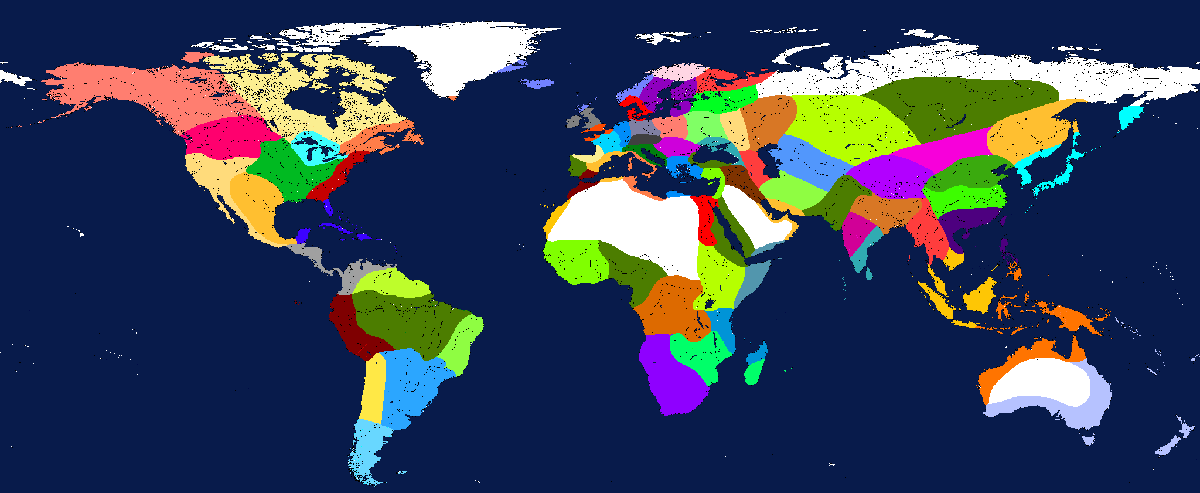
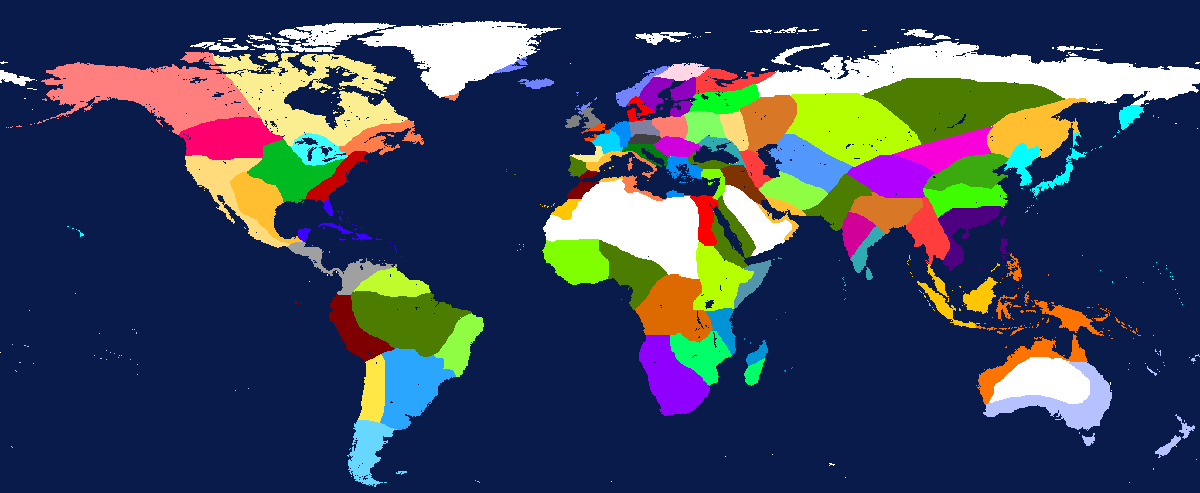
new zones map
all of north america colortozonename fixed

renamed WestCoast to BajaCaliforia
renamed Mississippi to Louisiana

diff --git a/TradeZoneWealth.js b/TradeZoneWealth.js
@@ -45,17 +45,17 @@ async function onLoad() {
         console.log("completed! Time Took (ms): " + ((new Date()) - startTime));
     }
     let ColorToZoneName = [
-        ["ff7e70", "Alaska"],
+        ["ff7f7f", "Alaska"],
         ["ff006e", "Cascadia"],
-        ["3dffff", "WestCoast"],
+        ["ffdb7b", "BajaCalifornia"],
         ["fbee91", "HudsonBay"],
-        ["3dffff", "GreatLakes"]/*,
-        ["Mississipi"],
-        ["GulfOfMexico"],
-        ["LawrenceGulf"],
-        ["EastCoast"],
-        ["Carribean"],
-        ["CentralAmerica"],
+        ["3dffff", "GreatLakes"],
+        ["00ba21", "Louisiana"],
+        ["ffbf30", "GulfOfMexico"],
+        ["ff7d49", "LawrenceGulf"],
+        ["c50000", "EastCoast"],
+        ["3c02ff", "Carribean"],
+        ["a0a0a0", "CentralAmerica"]/*,
 
         ["GuyanaAndSuriname"],
         ["Amazon"],

diff --git a/NationSheetGenerator.js b/NationSheetGenerator.js
@@ -454,10 +454,10 @@ function createNationSheet(nationName) {
             [
                 ".TradeInfluences[\"Alaska\"]",
                 ".TradeInfluences[\"Cascadia\"]",
-                ".TradeInfluences[\"WestCoast\"]",
+                ".TradeInfluences[\"BajaCalifornia\"]",
                 ".TradeInfluences[\"HudsonBay\"]",
                 ".TradeInfluences[\"GreatLakes\"]",
-                ".TradeInfluences[\"Mississipi\"]",
+                ".TradeInfluences[\"Louisiana\"]",
                 ".TradeInfluences[\"GulfOfMexico\"]",
                 ".TradeInfluences[\"LawrenceGulf\"]",
                 ".TradeInfluences[\"EastCoast\"]",

diff --git a/Stats.js b/Stats.js
@@ -752,10 +752,10 @@ class Nation {
     this.TradeInfluences = {
       Alaska: 0,
       Cascadia: 0,
-      WestCoast: 0,
+      BajaCalifornia: 0,
       HudsonBay: 0,
       GreatLakes: 0,
-      Mississipi: 0,
+      Louisiana: 0,
       GulfOfMexico: 0,
       LawrenceGulf: 0,
       EastCoast: 0,
@@ -1561,10 +1561,10 @@ class Stats{
     this.TradeZones = {
       Alaska: 0,
       Cascadia: 0,
-      WestCoast: 0,
+      BajaCalifornia: 0,
       HudsonBay: 0,
       GreatLakes: 0,
-      Mississipi: 0,
+      Louisiana: 0,
       GulfOfMexico: 0,
       LawrenceGulf: 0,
       EastCoast: 0,
